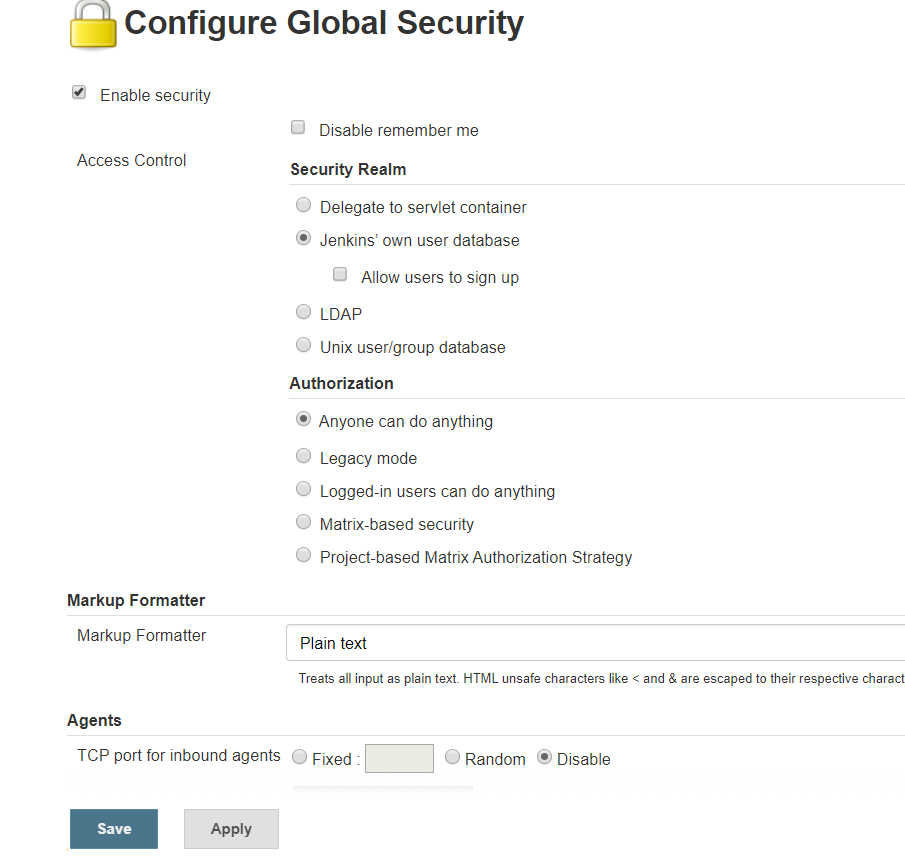
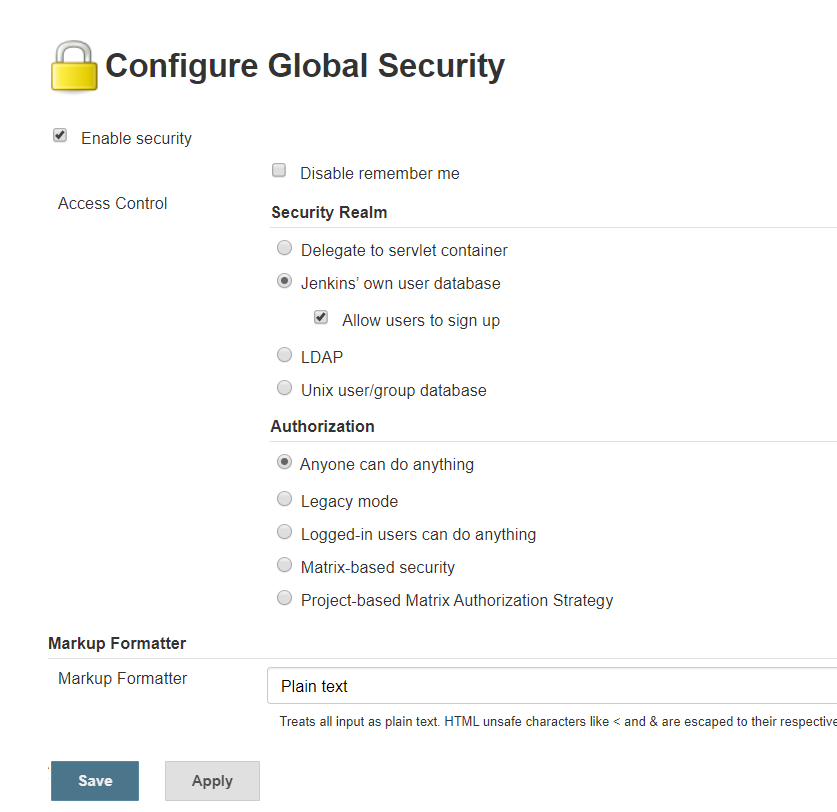
.

diff --git a/Configure-Jenkins-and-User-Management.md b/Configure-Jenkins-and-User-Management.md
@@ -16,6 +16,6 @@ In the Manage Jenkins page, click on **Setup Security** button
 
 <img src="images/Setup-Security.PNG">
 
-In the next page, select the enable security check box
+In the next page, select the enable security check box, Security Realm -> Jenkin's own user database, apply and save
 
 <img src="images/Enable-Security.PNG">
